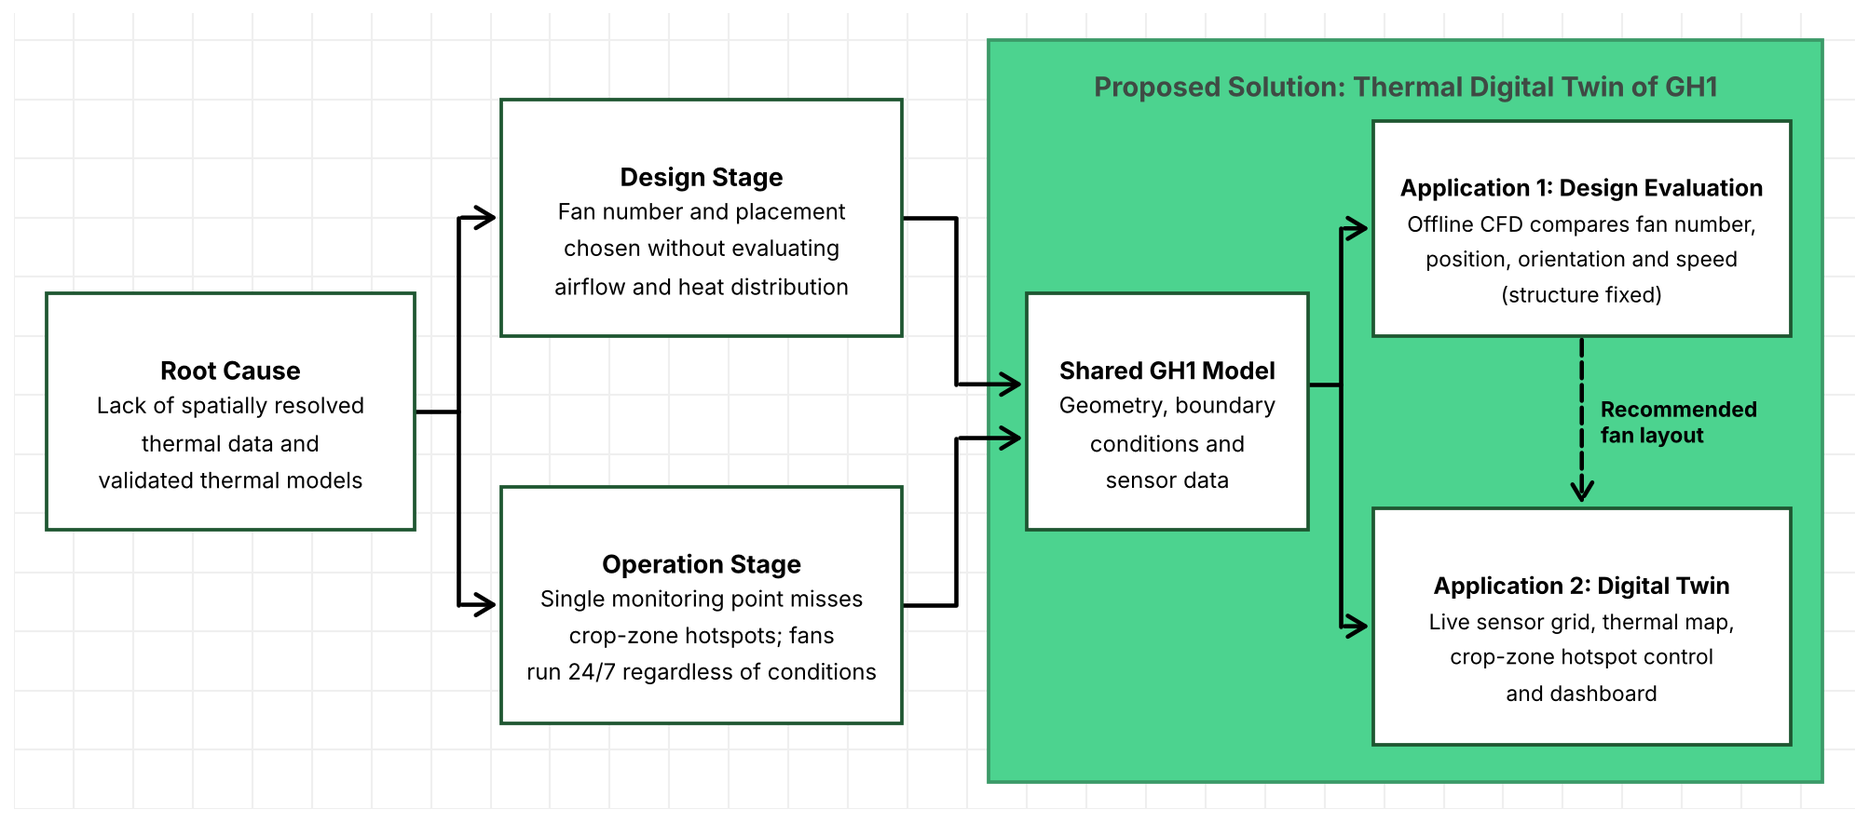
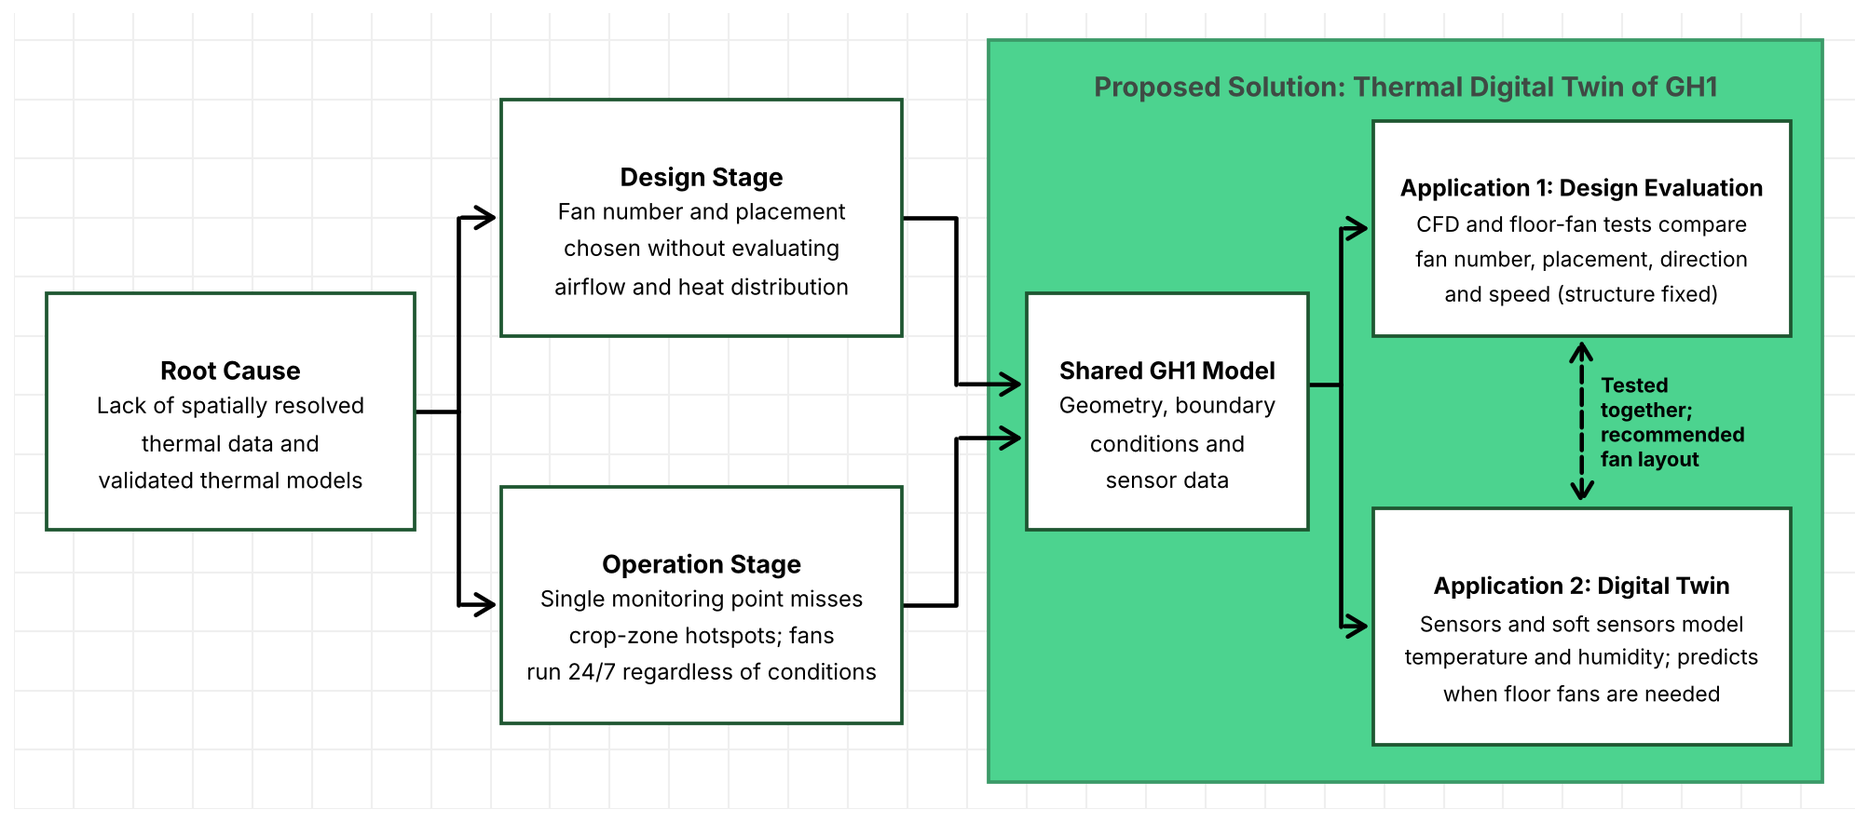
Revise solution: shared test section with 4 floor fans, soft sensors, 30-min hotspot prediction with NEA weather data, revised accuracy targets (R1, R4-R7, R13, new R14-R15)
Claude-Session: https://claude.ai/code/session_01DMX67LB1LwVtEXfwtyfhDE

Changed region(s): [[0.7418, 0.733, 0.9272, 0.8552], [0.7418, 0.2443, 0.9272, 0.3665], [0.8345, 0.4276, 0.9581, 0.5803]]

diff --git a/docs/report-tables.js b/docs/report-tables.js
@@ -38,21 +38,21 @@ const tables = {
     data: [
       [
         "P1. Insufficient spatial data: one monitoring point, yet a 4.0 °C spread across 57 points",
-        "Durable sensor grid and crop-height thermal map",
+        "Sensor grid with temporary nodes and soft sensors; crop-height thermal map",
         "O1 Thermal characterisation",
-        "R1–R5",
+        "R1–R5, R14",
       ],
       [
         "P2. Fan layout chosen without thermal analysis; physical trials are slow and costly",
-        "CFD baseline of GH1 and comparison of fan configurations",
+        "CFD of GH1 and floor-fan tests in a shared test section to compare fan configurations",
         "O2 Modelling and design evaluation",
         "R6–R7",
       ],
       [
         "P3. Fans run 24/7 without spatial or timing logic; high running cost",
-        "Digital twin with crop-zone hotspot control of floor fans and a dashboard",
+        "Digital twin that predicts crop-zone hotspots 30 min ahead and runs floor fans; dashboard",
         "O3 Digital twin and control",
-        "R8–R13",
+        "R8–R13, R15",
       ],
     ],
   },
@@ -61,10 +61,10 @@ const tables = {
   "table-scope": {
     columns: ["Area", "Long-term application", "CDE4301 deliverable (committed)", "Stretch goal"],
     data: [
-      ["Sensing", "Adaptable sensing for any greenhouse", "Sensor grid in a GH1 test section, durability-tested", "Wireless option (Zigbee or Wi-Fi) benchmarked"],
-      ["Thermal map", "Real-time 3D microclimate", "2D crop-height thermal map with uncertainty", "3D view (Three.js)"],
-      ["Design evaluation", "Optimise greenhouse designs before construction", "CFD baseline of GH1 and ≥ 10 fan configurations compared", "Surrogate model and automated search"],
-      ["Control", "Adaptive, predictive greenhouse management", "Rule-based crop-zone hotspot control of floor fans, tested against baseline", "Forecast-based scheduling"],
+      ["Sensing", "Adaptable sensing for any greenhouse", "Permanent sensor grid plus temporary nodes in the test section (germination section), durability-tested", "Wireless option (Zigbee or Wi-Fi) benchmarked"],
+      ["Thermal map", "Real-time 3D microclimate", "2D crop-height map of temperature and humidity, with soft sensors in place of temporary nodes", "3D view (Three.js)"],
+      ["Design evaluation", "Optimise greenhouse designs before construction", "Full-GH1 CFD of ≥ 10 fan configurations; tests with 4 floor fans in the test section (number, position, direction, speed)", "Surrogate model and automated search"],
+      ["Control", "Adaptive, predictive greenhouse management", "Floor fans switched on from 30-min hotspot predictions, tested against baseline", "Model predictive control"],
       ["Dashboard", "Farm-wide management interface", "Local dashboard: map, hotspots, fan status, energy", "Remote access"],
       ["Commercial value", "Higher profit and better crops", "Fan energy vs hotspot trade-off measured", "Yield and quality trials (future work)"],
     ],
@@ -88,19 +88,21 @@ const tables = {
   "table-requirements": {
     columns: ["ID", "Requirement", "Target", "Rationale", "Verification", "Status"],
     data: [
-      ["R1", "Sensor agreement with reference", "≤ 0.5 °C and ≤ 3 %RH RMSE", "Error must be well below the 4 °C spread being mapped", "Side by side with Kestrel 5000", "Bench met (0.33 °C, 2.35 %RH)"],
+      ["R1", "Sensor agreement", "Co-located nodes agree within 0.5 °C and 3 %RH; each node within 1.0 °C and 5 %RH (RMSE) of reference", "Hotspot detection depends more on nodes agreeing with each other than on absolute accuracy; both well below the 4 °C spread", "Nodes co-located with each other and a Kestrel 5000", "Reference met on bench (0.33 °C, 2.35 %RH); node-to-node not tested"],
       ["R2", "Radiation-shield bias", "≤ 0.5 °C mean bias in daytime GH1 (proposed)", "Unshielded bias was +4.3 °C, as large as the spread", "Shielded node vs reference in sun", "Not met unshielded; shielded to quantify"],
       ["R3", "Durability in humidity", "≥ 14 days in GH1 with misting; ≥ 95% valid readings; electronics compartment ≥ IP54", "High night-time RH and daily misting", "Field deployment log", "Not tested"],
-      ["R4", "Data delivery", "≥ 99% packets (wired) over 30 days; latency ≤ 5 s; sampling ≤ 60 s", "Gaps break the map and the controller", "Sequence-number counts", "Short bench run passed"],
-      ["R5", "Hotspot detection", "Layout finds the hottest crop zone identified by a dense survey in ≥ 80% of test periods (proposed)", "Sets node spacing without over-instrumenting", "Sparse vs dense layout comparison", "Not tested"],
-      ["R6", "Model trend agreement", "CFD ranks crop zones and fan effects in the same order as measurements", "Design advice depends on ranking, not absolute values", "Measured vs simulated; fan step tests", "Not started"],
-      ["R7", "Configuration study", "≥ 10 fan configurations compared with baseline", "Enough to show trends and a best option", "CFD runs", "Not started"],
+      ["R4", "Data delivery", "≥ 99% packets (wired) over 30 days; latency ≤ 5 s; sampling ≤ 60 s (permanent nodes), ≤ 5 min (temporary nodes)", "Gaps break the map and the controller", "Sequence-number counts", "Short bench run passed"],
+      ["R5", "Hotspot detection", "Permanent nodes plus soft sensors find the hottest crop zone identified by the full temporary grid in ≥ 80% of test periods (proposed)", "Sets the number of permanent nodes without over-instrumenting", "Held-out comparison with the temporary grid", "Not tested"],
+      ["R6", "Model trend agreement", "CFD ranks the floor-fan test configurations in the same order as measurements", "Design advice depends on ranking, not absolute values", "Shared test-section trials: Kestrel airspeed spot checks and sensor-grid temperature change", "Not started"],
+      ["R7", "Configuration study", "≥ 10 configurations compared with baseline in full-GH1 CFD; ≥ 5 run physically with the 4 floor fans (proposed)", "Enough to show trends and a best option", "CFD runs and test-section trials", "Not started"],
       ["R8", "Dashboard update", "Map, hotspots and fan states refreshed ≤ 1 min, locally", "Operators need current information", "Timed test on the Pi", "Not started"],
       ["R9", "Hotspot reduction", "Crop-zone exceedance (°C·min above 29 °C) ≥ 20% lower than baseline (proposed)", "Primary measure of thermal benefit", "Alternating-day trials, weather-normalised", "Not started"],
       ["R10", "Energy trade-off", "Fan energy ≤ baseline for equal or better exceedance", "Cost side of the farmer's balance", "Fan energy metering", "Not started"],
       ["R11", "Safe control", "Fans revert to baseline on fault; minimum on/off time ≥ 10 min", "Crop safety and equipment wear", "Fault-injection test", "Not started"],
       ["R12", "Electrical safety", "Fans ≤ 24 V DC or certified switching; farm mains untouched", "Safe, reversible installation", "Design review", "Not started"],
-      ["R13", "Local-first operation", "Runs without internet; auto-restart ≤ 5 min after power loss", "Limited connectivity on site", "Network-unplug and power-cycle tests", "Not tested"],
+      ["R13", "Local-first operation", "Runs without internet (prediction falls back to sensor data only); auto-restart ≤ 5 min after power loss", "Limited connectivity on site", "Network-unplug and power-cycle tests", "Not tested"],
+      ["R14", "Soft-sensor accuracy", "Soft sensors reproduce held-out temporary-node readings within 1.0 °C and 5 %RH RMSE (proposed)", "Lets temporary nodes be removed after training, cutting sensor cost", "Train on one period, test on another", "Not started"],
+      ["R15", "Hotspot prediction", "Forecasts crop-zone exceedance for the next 30 min, updated every 30 min; flags ≥ 80% of measured exceedance periods (proposed)", "Starts fans before hotspots form rather than after", "Predicted vs measured exceedance over test days", "Not started"],
     ],
   },
 
@@ -108,10 +110,10 @@ const tables = {
   "table-subsystems": {
     columns: ["Subsystem", "Goal", "Deliverables", "Verified by", "Status (end of Semester 1)"],
     data: [
-      ["S1 Sense", "Durable, location-tagged crop-zone T/RH and canopy temperature", "Type A/B nodes, shielded enclosure, RS-485 network, gateway logging", "R1–R5", "Prototype node; bench accuracy tested; RS-485 to MQTT verified"],
-      ["S2 Map & Model", "Live thermal map and hotspot index; validated CFD baseline; fan-configuration comparison", "Gaussian-process map, CFD model, configuration ranking, dashboard", "R5–R8", "57-point survey and heatmap; GH1 dimensions recorded"],
-      ["S3 Decide", "Decide fan actions from crop-zone hotspots", "Hotspot index; rule-based controller with fail-safe", "R9, R11, R13", "Control approach defined"],
-      ["S4 Actuate", "Run fan commands safely and measure their energy", "Procured floor fans, speed/relay interface, energy metering", "R9–R12", "Fans to be procured"],
+      ["S1 Sense", "Durable, location-tagged crop-zone T/RH and canopy temperature", "Type A/B nodes, shielded enclosure, RS-485 network, permanent and temporary nodes, gateway logging", "R1–R5", "Prototype node; bench accuracy tested; RS-485 to MQTT verified"],
+      ["S2 Map & Model", "Thermal map with soft sensors; 30-min hotspot prediction; CFD checked in the test section; fan-configuration comparison", "Soft-sensor and prediction models, Gaussian-process map, CFD model, configuration ranking, dashboard", "R5–R8, R14, R15", "57-point survey and heatmap; GH1 dimensions recorded"],
+      ["S3 Decide", "Decide fan actions from predicted crop-zone hotspots", "Hotspot index; prediction-triggered rules with fail-safe", "R9, R11, R13, R15", "Control approach defined"],
+      ["S4 Actuate", "Run fan commands safely and measure their energy", "Four procured floor fans, speed/relay interface, energy metering", "R9–R12", "Fans to be procured"],
     ],
   },
 
@@ -121,11 +123,12 @@ const tables = {
     data: [
       ["Sensor-to-gateway link", "RS-485, Wi-Fi, BLE, Zigbee, LoRa", "RS-485; one wireless option benchmarked", "Robust over ~57 m and already verified end to end; wireless avoids cabling but needs reliability and power testing"],
       ["Actuation", "Modify ventilation or misting; control existing fans; procure own floor fans", "Procured floor circulation fans", "Existing systems cannot be modified; own fans are safe, movable and allow speed tests"],
-      ["Modelling approach", "Run CFD live; data-only interpolation; offline CFD plus sensor-updated map", "Offline CFD plus sensor-updated map", "CFD is too slow for live control; data alone cannot evaluate untested fan layouts"],
-      ["Thermal map method", "Inverse-distance weighting; Gaussian process; CFD-based", "Gaussian process", "Also estimates uncertainty, showing where more sensors are needed"],
+      ["Modelling approach", "Run CFD live; data only; offline CFD plus data-driven twin", "Offline CFD for design; data-driven twin for operation, tested together", "CFD is too slow for live use but can evaluate untested layouts; a data-driven twin is fast and checked directly by sensors"],
+      ["Thermal map method", "Dense permanent grid; inverse-distance weighting; Gaussian process; soft sensors trained on temporary nodes", "Soft sensors, with a Gaussian process between nodes", "Fewer permanent nodes after training; the Gaussian process shows where uncertainty remains"],
       ["CFD tool", "SOLIDWORKS Flow Simulation; ANSYS Fluent; OpenFOAM", "SOLIDWORKS Flow Simulation", "Integrated with the CAD model and available; adequate for comparative studies"],
       ["Edge computer", "Raspberry Pi 5; laptop; cloud", "Raspberry Pi 5", "Low cost and power; runs Docker, MQTT and Node-RED locally"],
-      ["Controller", "PID; rule-based; model predictive control", "Rule-based (MPC as stretch)", "Transparent and testable in the timeline; disturbances limit the benefit of precise control"],
+      ["Controller", "PID; reactive rules; rules triggered by 30-min predictions; model predictive control", "Rules triggered by 30-min predictions (MPC as stretch)", "Starts fans before hotspots form while staying transparent and testable in the timeline"],
+      ["Weather input", "On-site sensors only; NEA live readings and 2-hour nowcast; global forecast service", "NEA live readings and nowcast, with on-site fallback", "Local, free and updated every minute; the system still runs offline"],
     ],
   },
 
@@ -135,11 +138,13 @@ const tables = {
     data: [
       ["Greenhouse geometry, roof, walls and netting", "Fixed (GH1 as built)"],
       ["Existing ventilation and ceiling fans", "Fixed, as baseline operation"],
-      ["Number of floor fans", "Variable"],
-      ["Fan positions and orientation", "Variable"],
+      ["Model domains", "Test section (germination section) to check against measurements; full GH1 for the design study"],
+      ["Number of floor fans", "Variable: 1–4 in the test section; more in full-GH1 runs"],
+      ["Fan positions and direction", "Variable"],
       ["Fan speed", "Variable, within the procured fans' range"],
       ["External weather", "Representative midday, morning and overcast cases"],
       ["Outputs", "Crop-zone temperature, exceedance H, airflow, fan power"],
+      ["Check data", "Kestrel airspeed spot checks and sensor-grid temperature change from the shared floor-fan tests"],
     ],
   },
 
@@ -170,10 +175,10 @@ const tables = {
     columns: ["Milestone", "Date", "Deliverable", "Acceptance criterion"],
     data: [
       ["M1", "31 Dec 2026", "Sensor nodes fabricated with shielded enclosures", "R1 and R2 met on the fabricated nodes"],
-      ["M2", "31 Jan 2027", "Sensor grid deployed in the test section; CFD baseline built", "R4 met over 7 days; CFD finds the same hottest crop zone as measurements (R6)"],
-      ["M3", "21 Feb 2027", "Fan-configuration study complete", "≥ 10 configurations ranked; top 2–3 selected for physical tests (R7)"],
-      ["M4", "14 Mar 2027", "Control loop and dashboard working", "Fans respond to crop-zone hotspots with fail-safe; dashboard live (R8, R11)"],
-      ["M5", "11 Apr 2027", "Validation complete", "Baseline vs proposed trials report exceedance and fan energy (R9, R10); durability ≥ 14 days (R3)"],
+      ["M2", "31 Jan 2027", "Permanent and temporary nodes deployed in the test section; test-section CFD model built", "R4 met over the first 7 days; CFD ready for the floor-fan tests"],
+      ["M3", "21 Feb 2027", "Floor-fan tests in the test section; soft sensors trained", "CFD ranks the tested configurations as measured (R6); soft sensors meet R14"],
+      ["M4", "14 Mar 2027", "Full-GH1 configuration study; prediction, control loop and dashboard working", "≥ 10 configurations ranked (R7); predictions meet R15; fail-safe and dashboard live (R8, R11)"],
+      ["M5", "11 Apr 2027", "Validation complete", "Baseline vs proposed trials report exceedance and fan energy (R9, R10); hotspot detection (R5); durability ≥ 14 days (R3)"],
     ],
   },
 

diff --git a/tools/diagrams/report_diagrams.py b/tools/diagrams/report_diagrams.py
@@ -105,9 +105,9 @@ def problem_framing():
         flat_box(ax, 9.35, 2.6, 2.6, 2.2, "Shared GH1 Model",
                  "Geometry, boundary\nconditions and\nsensor data", tsize=12.5)
         flat_box(ax, 12.55, 4.4, 3.85, 2.0, "Application 1: Design Evaluation",
-                 "Offline CFD compares fan number,\nposition, orientation and speed\n(structure fixed)", tsize=12, bsize=11)
+                 "CFD and floor-fan tests compare\nfan number, placement, direction\nand speed (structure fixed)", tsize=12, bsize=11)
         flat_box(ax, 12.55, 0.6, 3.85, 2.2, "Application 2: Digital Twin",
-                 "Live sensor grid, thermal map,\ncrop-zone hotspot control\nand dashboard", tsize=12, bsize=11)
+                 "Sensors and soft sensors model\ntemperature and humidity; predicts\nwhen floor fans are needed", tsize=12, bsize=11)
         # arrows
         elbow(ax, [(3.7, 3.7), (4.1, 3.7), (4.1, 5.5), (4.5, 5.5)])
         elbow(ax, [(4.1, 3.7), (4.1, 1.9), (4.5, 1.9)])
@@ -115,9 +115,11 @@ def problem_framing():
         elbow(ax, [(8.2, 1.9), (8.7, 1.9), (8.7, 3.45), (9.35, 3.45)])
         elbow(ax, [(11.95, 3.95), (12.25, 3.95), (12.25, 5.4), (12.55, 5.4)])
         elbow(ax, [(12.25, 3.95), (12.25, 1.7), (12.55, 1.7)])
-        elbow(ax, [(14.475, 4.4), (14.475, 2.8)], dashed=True)
-        ax.text(14.65, 3.6, "Recommended\nfan layout", fontsize=11, fontweight="bold",
-                color="black", va="center", zorder=4)
+        ax.add_patch(FancyArrowPatch((14.475, 4.4), (14.475, 2.8),
+                                     arrowstyle="<->,head_length=0.5,head_width=0.3",
+                                     mutation_scale=18, color="black", lw=2.2, linestyle="--", zorder=2))
+        ax.text(14.65, 3.6, "Tested\ntogether;\nrecommended\nfan layout", fontsize=10.5,
+                fontweight="bold", color="black", va="center", zorder=4)
         fig.savefig(OUT + "fig-problem-framing.png", dpi=150, bbox_inches="tight", facecolor="white")
         plt.close(fig)
 

diff --git a/docs/sections/06-detailed-design.md b/docs/sections/06-detailed-design.md
@@ -3,7 +3,7 @@ title: 6. System Architecture and Detailed Design
 ---
 ### 6.1. System Architecture
 
-The system has four subsystems (Figure 12). S1 measures conditions across the crop zones. S2 turns the measurements into a live thermal map and hotspot index (the digital twin) and, separately, runs offline CFD to evaluate fan layouts. S3 decides fan actions from the hotspot index, and S4 carries them out with floor fans, whose effect is then measured again by S1. A local dashboard shows the map, hotspots and fan status. All live processing runs on a Raspberry Pi 5, so the system keeps working without internet access.
+The system has four subsystems (Figure 12). S1 measures conditions across the crop zones. S2 turns the measurements into a live thermal map and predicts crop-zone hotspots 30 minutes ahead (the digital twin) and, separately, runs offline CFD to evaluate fan layouts. S3 decides fan actions from these predictions, and S4 carries them out with floor fans, whose effect is then measured again by S1. A local dashboard shows the map, hotspots and fan status. All live processing runs on a Raspberry Pi 5, so the system keeps working without internet access.
 
 ![Figure 12. System architecture](assets/fig-system-architecture.png)
 
@@ -25,12 +25,12 @@ Nodes send JSON packets containing a node ID, sequence number and readings over 
 
 ### 6.4. S2: Thermal Map, CFD Model and Digital Twin
 
-The live thermal map interpolates node readings across the crop zones using a Gaussian process, which also estimates the uncertainty between nodes. The 57-point survey will be used to choose node spacing: a layout is acceptable if it finds the same crop-zone hotspots as a dense survey (R5).
+During a training period, temporary nodes are placed between the permanent ones. Soft sensors are then trained to estimate each temporary node's readings from the permanent nodes, fan states and outdoor conditions, so the temporary nodes can be removed (R14). A Gaussian process fills the gaps between nodes and estimates uncertainty. Every 30 minutes, a prediction model combines these estimates with live NEA weather readings and the 2-hour nowcast to forecast crop-zone exceedance for the next 30 minutes (R15). Without internet, it runs on sensor data alone.
 
-The CFD model of GH1 is built in SOLIDWORKS Flow Simulation. To keep it tractable, the measured roof surface temperature replaces a full solar-radiation model, crops are modelled as a porous zone, and existing fans use their rated airflow. The model is calibrated on one day and checked against another for trend agreement (R6). A Grafana dashboard on the Pi shows the map, hotspot index and fan status.
+The CFD model of GH1 is built in SOLIDWORKS Flow Simulation. To keep it tractable, the measured roof surface temperature replaces a full solar-radiation model, crops are modelled as a porous zone, and existing fans use their rated airflow. The model is first checked against the floor-fan tests in the germination section, using Kestrel airspeed spot checks and the sensor grid (R6), then used for the full-GH1 study. A Grafana dashboard on the Pi shows the map, predictions and fan status.
 
 ### 6.5. S3 and S4: Control and Actuation
 
-The controller uses simple, transparent rules rather than predictive control. When a crop zone's exceedance H rises above a threshold, the fans that most influence that zone, identified from fan step tests and CFD, are switched on or sped up. When H falls back, they return to low speed or off. A minimum on/off time prevents rapid cycling, and if sensors or the controller fail, the fans revert to baseline operation (on).
+The controller uses simple, transparent rules. When a crop zone's predicted exceedance H rises above a threshold, the fans that most influence that zone, identified from the floor-fan tests and CFD, are switched on or sped up before the hotspot forms. When H is predicted to fall, they return to low speed or off. A minimum on/off time prevents rapid cycling, and if sensors or the controller fail, the fans revert to baseline operation (on).
 
-S4 uses floor circulation fans procured for the project, ideally low-voltage DC fans with PWM speed control, so the farm's mains wiring is not changed. Fan energy is metered to evaluate the cost side of the trade-off.
+S4 uses four floor circulation fans procured for the project, ideally low-voltage DC fans with PWM speed control, so the farm's mains wiring is not changed. Fan energy is metered to evaluate the cost side of the trade-off.

diff --git a/docs/sections/05-concept-development.md b/docs/sections/05-concept-development.md
@@ -23,7 +23,7 @@ Airflow and heat distribution depend on how cooling equipment is arranged and op
 
 ![Figure 11. Example: options for warm air trapped under the roof](assets/fig-trapped-hot-air.png)
 
-Testing many configurations physically would be slow and costly. CFD is therefore used to compare fan numbers, positions, orientations and speeds against the baseline, with the greenhouse structure held fixed (Table 10). Configurations are ranked by crop-zone exceedance and fan power. The result is the best-performing configuration among those evaluated, not a mathematical optimum. Two or three of the best configurations will then be tested physically to validate the predictions.
+Testing many configurations physically would be slow and costly. CFD is therefore used to compare fan numbers, positions, orientations and speeds against the baseline, with the greenhouse structure held fixed (Table 10). Configurations are ranked by crop-zone exceedance and fan power. The result is the best-performing configuration among those evaluated, not a mathematical optimum. The model is first checked against floor-fan tests in the germination section, which also supply training data for the digital twin, so both are tested together.
 
 [[table: table-sim-scope | Table 10: Scope of the CFD configuration study]]
 

diff --git a/docs/sections/04-design-specifications.md b/docs/sections/04-design-specifications.md
@@ -3,7 +3,7 @@ title: 4. Design Specifications
 ---
 ### 4.1. Baseline-Referenced Validation
 
-Greenhouse measurements are disturbed by passing clouds, wind and misting, so the requirements do not ask for an accurate prediction of temperature. Instead, each solution is compared against a reference baseline: GH1's current operation, with existing fans running continuously, measured under comparable weather. The requirements then ensure that measurement error is small enough for those comparisons to be meaningful.
+Greenhouse measurements are disturbed by passing clouds, wind and misting, so the requirements do not ask for accurate absolute temperatures. Instead, each solution is compared against a reference baseline: GH1's current operation, with existing fans running continuously, measured under comparable weather. The requirements then ensure that measurement error is small enough for those comparisons to be meaningful.
 
 Hotspots are judged only where crops grow, using a crop-zone exceedance index for each zone *i*:
 
